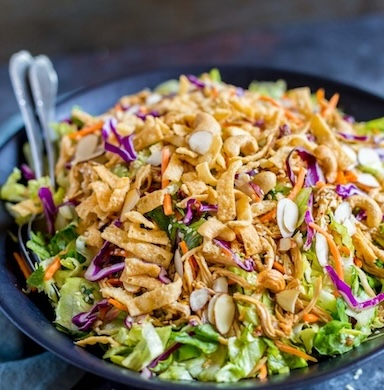
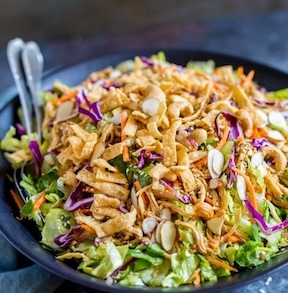
Add files via upload

Changed region(s): [[0.125, 0.7372, 0.1562, 0.7679]]

diff --git a/bananabread.html b/bananabread.html
@@ -1,0 +1,58 @@
+<a href="index.html">Home</a>
+
+<a href="desserts.html">Back to Desserts</a>
+
+<head>
+	<title>Chocolate Chip Banana Bread</title>
+</head>
+			<p> Banana bread isknown for its moist, tender, and perfect crumbly and intense banana flavor, often featuring a golden-brown crust. It is a sweet, cake-like comfort food typically made with overripe bananas, flour, sugar, and more. It is  enjoyed for breakfast or dessert, sometimes featuring additions like nuts or chocolate chips.
+
+			<h3>Prep Time: 10 mins</h3>
+				<h3>Servings: 8-10 servings</h3>
+				<h3>Cook time: 60 mins</h3>
+
+
+				<h3>Ingredients</h3>
+				<ul> 
+					<li>2 to 3 medium (7" to 7-7/8" long) very ripe peeled bananas, about 1 1/4 to 1 1/2 cups mashed</li>
+						<li>1/3 cup (76g) butter, unsalted or salted, melted
+</li>
+						<li>1/2 teaspoon baking soda. not baking powder.</li>
+						<li>1 pinch salt
+</li>
+						<li>3/4 cup sugar. You can use 1/2 cup if you would like it less sweet, 1 cup if more sweet. </li>
+						<li>1 large egg, beaten
+</li>
+						<li>1 teaspoon vanilla extract
+</li>
+						<li>1 1/2 cups (205g) all-purpose flour
+</li>
+						
+						<li>semisweet chocolate chips. measure with heart.</li>
+
+
+				</ul>
+
+<h3> Preheat the oven to 350F (175C):
+Butter an 8x4-inch loaf pan.
+ </h3>
+<h3>Mash the bananas and add the butter:
+In a mixing bowl, mash the ripe bananas with a fork until completely smooth. Stir the melted butter into the mashed bananas
+ </h3>
+<h3>Mix in the remaining ingredients:
+Mix in the baking soda and salt. Stir in the sugar, beaten egg, and vanilla extract. Mix in the flour. </h3>
+<h3>Fold in chocolate chips if you want.</h3>
+<h3>Bake the bread:
+Pour the batter into your prepared loaf pan.</h3>
+<h3>Bake for 55 to 65 minutes at 350°F (175°C), or until a toothpick or wooden skewer inserted into the center comes out clean. A few dry crumbs are okay; streaks of wet batter are not. If the outside of the loaf is browned but the center is still wet, loosely tent the loaf with foil and continue baking until the loaf is fully baked.</h3>
+<h3>Cool and serve:
+Remove from oven and let cool in the pan for a few minutes. Then remove the banana bread from the pan and let cool completely before serving. Slice and serve. (A bread knife helps to make slices that aren't crumbly.)
+
+Wrapped well, the banana bread will keep at room temperature for 4 days. For longer storage, refrigerate the loaf up to 5 days, or freeze it.</h3>
+
+
+
+
+
+			</body>
+			</html>

diff --git a/cccookies.html b/cccookies.html
@@ -1,0 +1,43 @@
+<a href="index.html">Home</a>
+<a href="desserts.html">Back to Desserts</a>
+
+<head>
+	<title>Kate's Chocolate Chip Cookies </title>
+</head>
+			<p> These cookies are baked by my very own sister and loved by my entire family! Use this recipe with caution, becuase your family will be begging for more!
+
+			
+
+				<h3>Ingredients</h3>
+				<ul> 
+					<li>1 cup (222g) salted butter, softened</li>
+						<li>3/4 cup (173g) granulated sugar</li>
+						<li>3/4 cup (185g) packed brown sugar</li>
+						<li>1 tsp vanilla extract</li>
+						<li>2 eggs</li>
+						<li>2 1/4 cup + 2 tbsp (342g) all-purpose flour</li>
+						<li>1 tsp baking soda</li>
+						<li>1 tsp salt</li>
+						<li>2 cups (400g) nestle toll house semi-sweet chocolate morsels</li>
+						
+
+
+				</ul>
+
+<h3> Preheat the oven to 375F (190C).
+ </h3>
+<h3>Cream together the butter and sugars in either a large bowl with an electric hand mixer or with a stand mixer.
+ </h3>
+<h3>Add the eggs one at a time, mixing until thoroughly incorporated. Add the vanilla and mix well. </h3>
+<h3>Add the flour, baking soda and salt, mixing until a soft dough forms.</h3>
+<h3>Add in the chocolate morsels and nuts (if using), mix until evenly distributed.</h3>
+<h3>Drop 1 tbsp rounds of dough on an ungreased cookie sheet.</h3>
+<h3>Bake at 375°F (190°C) F for 7-9 minutes or until golden brown on the edges.</h3>
+<h3>Allow the cookies to cool on the pan for 2 minutes before transferring to a wire cooling rack to cool.
+Enjoy!</h3>
+
+
+
+
+			</body>
+			</html>

diff --git a/best healthy muffins.html b/best healthy muffins.html
@@ -1,0 +1,50 @@
+<a href="index.html">Home</a>
+<a href="desserts.html">Back to Desserts</a>
+
+
+
+<!DOCTYPE html>
+<!-- saved from url=(0073)file:///Users/s2026/Desktop/tatum%20O'Sullivans%20cool%20stuff/index.html -->
+<html><head><meta http-equiv="Content-Type" content="text/html; charset=windows-1252">
+	<title>best healthy muffins</title>
+</head>
+<body>
+	<h1><center>best healthy muffins</center></h1>
+
+	<p> if you want flowerless, sugarless, yet still yummy 
+	</p><ul>
+		<li>chocolate</li>
+		<li>rasberry poppysead</li>
+		<li>banana mufins</li>
+	</ul>
+		
+then this recipes is for you. <p></p>
+
+
+	
+
+
+<table>
+
+	<tbody><tr><th><a href="file:///Users/s2026/Desktop/tatum%20O&#39;Sullivans%20cool%20stuff/PlainBananaMuffins.html"> orginal plain banana muffins</a></th>
+
+
+	<th><a href="file:///Users/s2026/Desktop/tatum%20O&#39;Sullivans%20cool%20stuff/ChocolateChipMuffins.html">chocolate chip muffins</a></th>
+
+	<th><a href="file:///Users/s2026/Desktop/tatum%20O&#39;Sullivans%20cool%20stuff/RaspberryPoppyseedMuffins.html">raspberry poppyseed muffins</a></th>
+
+</tr></tbody></table>
+
+
+
+
+
+
+
+
+
+
+
+
+
+</body></html>

diff --git a/index.html b/index.html
@@ -2,8 +2,9 @@
 <html> 
 <head>
 	<title>Favorite Recipes</title>
+	<link href="style.css" type="text/css" rel="stylesheet"/>
 </head>
-<body>
+<body id="home">
 	<h1>Favorite Recipes</h1>
 
 	<p> I love to cook, and I want to spread that love with other people (including kids!) who aren't as natural in the kitchen.These recipes are easy, healthy,and super delicous! Enjoy!
@@ -14,20 +15,10 @@
 			<h1>Salad</h1><br><a href="salads.html"><img src="salad.jpeg" alt="Photo of Salad"/></a>
 			
 
-			<li><a href="main dishes.html">Main dishes</a></li>
-				<ul>
-					<li>Scrambled Eggs</li>
-					<li>Banana Pancakes</li>
-					<li>Grilled Cheese Sandwich</li>
-					<li>Creamy Tomato Pasta</li>
-					<li>Turkey Burgers</li>
+			
 				</ul>
 				<h1>Desserts</h1><br><a href="desserts.html"><img src="dessertphoto.jpg" alt="Photo of Dessert"/></a>
-			<ul>
-				<li>Chocolate Chip Muffins</li>
-				<li>Banana Bread</li>
-				<li>Special Guest Meal! Kate's Chocolate Chip Cookies</li>
-			</ul>
+			
 		</ul>
 
 

diff --git a/desserts.html b/desserts.html
@@ -1,4 +1,4 @@
-desserts.html
+<a href="index.html">Home</a>
 <!DOCTYPE html>
 <html> 
 <head>
@@ -12,9 +12,9 @@ desserts.html
 </ul>
 			<h1>Chocolate Chip Muffins</h1><br><a href="ccmuffins.html"><img src="ccmuffins.jpg" alt="Photo of Chocolate Chip Muffins"/></a>
 
-<h1>Banana bread</h1><br><a href="chinesechickensalad.html"><img src="chinesechickensalad.jpg" alt="Photo of Chinese Chicken Salad"/></a>
+<h1>Banana bread</h1><br><a href="bananabread.html"><img src="bananabread.png" alt="Photo of Banana Bread"/></a>
 
-<h1>Little Gem Salad</h1><br><a href="littlegemsalad.html"><img src="littlegemsalad.jpg" alt="Photo of Little Gem Salad"/></a>
+<h1>Kate's Chocolate Chip Cookies!</h1><br><a href="cccookies.html"><img src="cccookies.png" alt="Photo of Cookies"/></a>
 
 
 

diff --git a/Original Plain Banana Muffins.html b/Original Plain Banana Muffins.html
@@ -1,0 +1,13 @@
+
+<!-- saved from url=(0086)file:///Users/s2026/Desktop/tatum%20O'Sullivans%20cool%20stuff/PlainBananaMuffins.html -->
+<html><head><meta http-equiv="Content-Type" content="text/html; charset=windows-1252">
+	<title>Original Plain Banana Muffins</title>
+	
+</head>
+<body>
+<h1><center>Original Plain Banana Muffinsins</center></h1>
+
+<a href="file:///Users/s2026/Desktop/tatum%20O&#39;Sullivans%20cool%20stuff/index.html">home page</a>
+
+
+</body></html>

diff --git a/chinesechickensalad.html b/chinesechickensalad.html
@@ -1,4 +1,5 @@
-chinesechickensalad.html
+<a href="index.html">Home</a>
+<a href="salads.html">Back to Salads</a>
 
 <head>
 	<title>Chinese Chicken Salad </title>

diff --git a/ccmuffins.html b/ccmuffins.html
@@ -1,4 +1,5 @@
-ccmuffins.html
+<a href="index.html">Home</a>
+<a href="desserts.html">Back to Desserts</a>
 
 <head>
 	<title>Chocolate Chip Muffins </title>

diff --git a/caesersalad.html b/caesersalad.html
@@ -1,4 +1,6 @@
-caesersalad.html
+<a href="index.html">Home</a>
+<a href="salads.html">Back to Salads</a>
+
 <head>
 	<title>Ceaser Salad</title>
 </head>

diff --git a/littlegemsalad.html b/littlegemsalad.html
@@ -1,4 +1,5 @@
-littlegemsalad.html
+<a href="index.html">Home</a>
+<a href="salads.html">Back to Salads</a>
 
 <head>
 	<title>Little Gem Salad </title>

diff --git a/salads.html b/salads.html
@@ -1,4 +1,4 @@
-salads.html
+<a href="index.html">Home</a>
 
 <!DOCTYPE html>
 <html> 

diff --git a/style.css b/style.css
@@ -1,0 +1,5 @@
+
+
+#home{
+	background-color:#76B4CC;
+}
